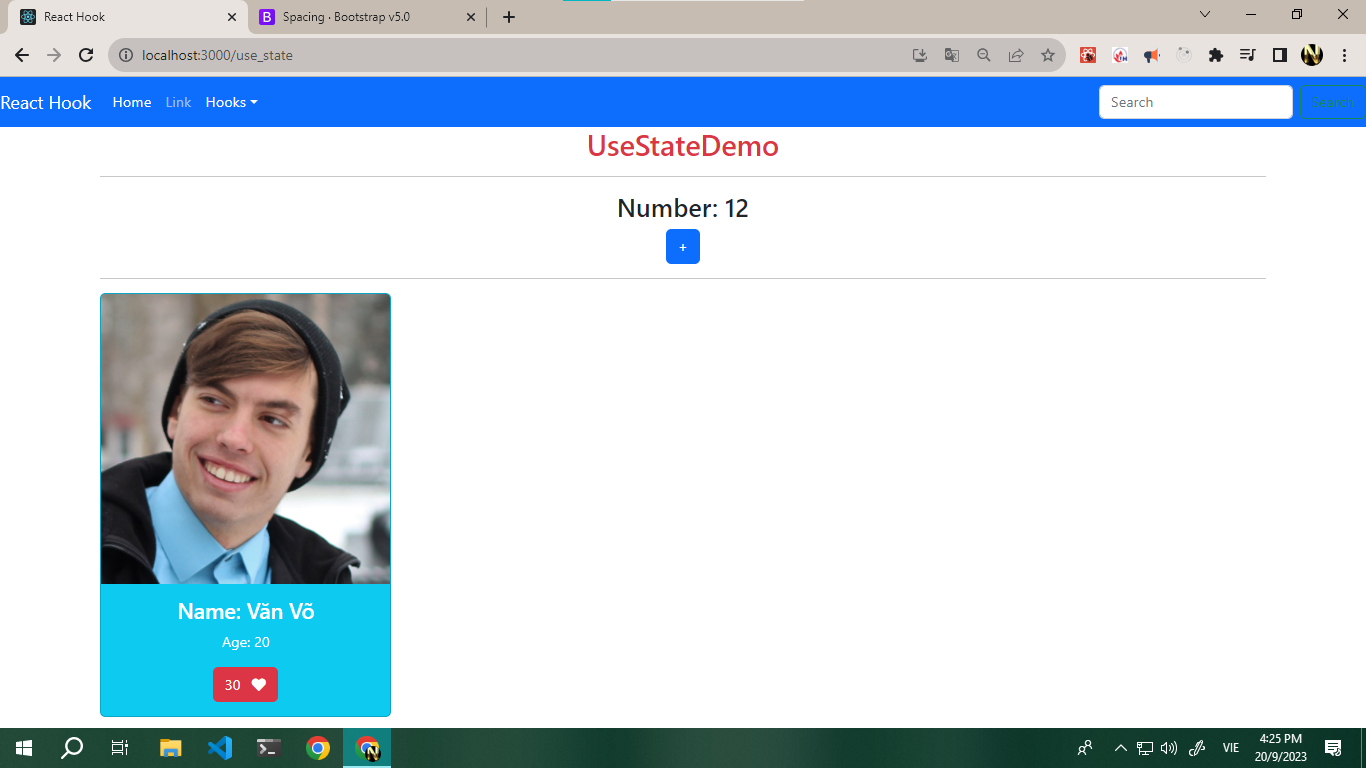
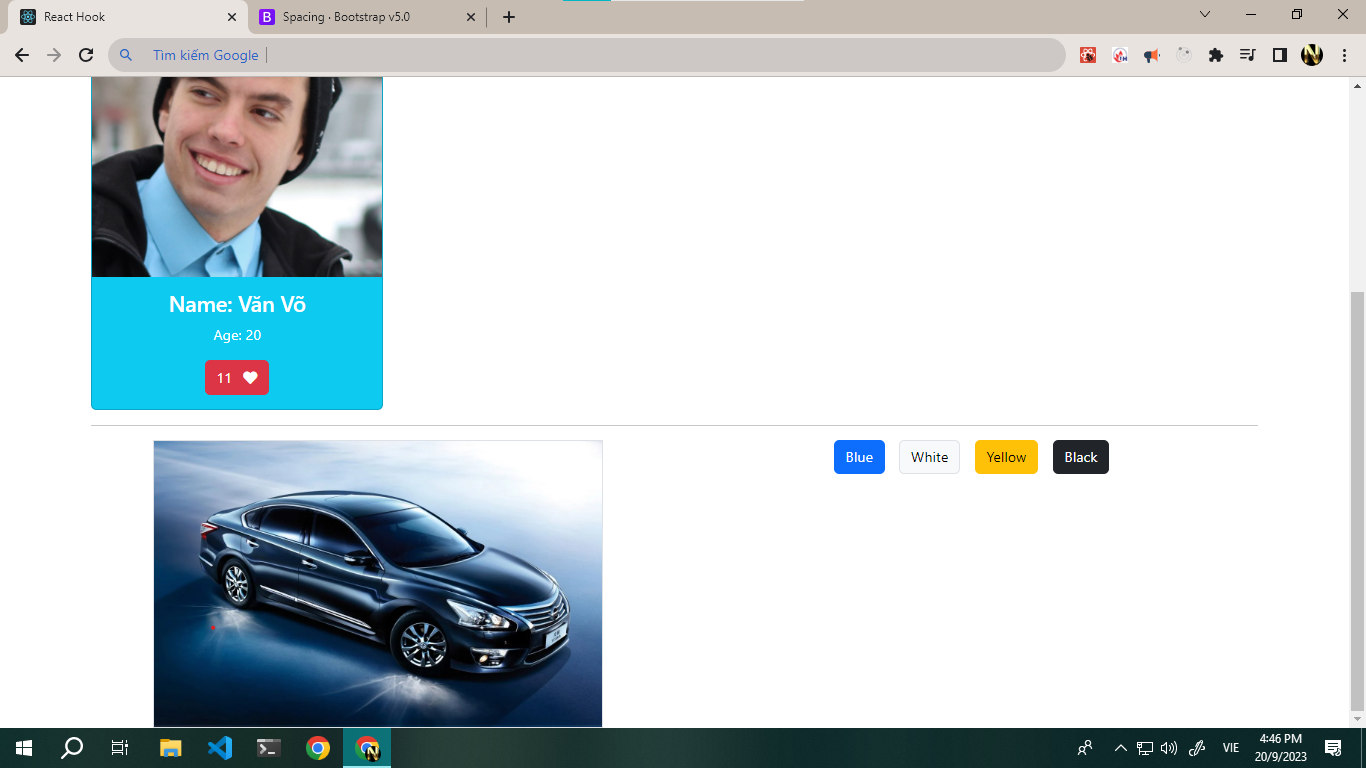
finish bt Chon xe

diff --git a/react_buoi10/src/pages/UseStateDemo/DemoChonXe.jsx b/react_buoi10/src/pages/UseStateDemo/DemoChonXe.jsx
@@ -1,0 +1,30 @@
+import React, { useState } from "react";
+
+export default function DemoChonXe() {
+    let [color, setColor] = useState("./img/products/car_black.webp");
+    const changeColor = (val) => {
+        let str = `./img/products/car_${val}.webp`;
+        setColor(str);
+    }
+  return (
+    <div className="row">
+      <div className="col-6">
+        <img src={color} className="border" alt="..." width={500} />
+      </div>
+      <div className="col-6">
+        <button onClick={() => {changeColor('blue')}} type="button" className="mx-2 btn btn-primary">
+          Blue
+        </button>
+        <button onClick={() => {changeColor('white')}} type="button" className="mx-2 btn btn-light border">
+          White
+        </button>
+        <button onClick={() => {changeColor('yellow')}} type="button" className="mx-2 btn btn-warning">
+          Yellow
+        </button>
+        <button onClick={() => {changeColor('black')}} type="button" className="mx-2 btn btn-dark">
+          Black
+        </button>
+      </div>
+    </div>
+  );
+}

diff --git a/react_buoi10/src/pages/UseStateDemo/UseStateDemo.jsx b/react_buoi10/src/pages/UseStateDemo/UseStateDemo.jsx
@@ -1,4 +1,5 @@
 import React, { useState } from "react";
+import DemoChonXe from "./DemoChonXe";
 
 export default function UseStateDemo() {
   let [number, setNumber] = useState(12);
@@ -41,6 +42,12 @@ export default function UseStateDemo() {
           </div>
         </div>
       </div>
+      
+        
+      <hr />
+          {/* BT Chon xe */}
+          <DemoChonXe />
+          
     </div>
   );
 }

diff --git a/react_buoi10/src/components/HearHome.jsx b/react_buoi10/src/components/HearHome.jsx
@@ -26,9 +26,9 @@ export default function HearHome() {
               </NavLink>
             </li>
             <li className="nav-item">
-              <a className="nav-link" href="#">
+              <NavLink className="nav-link" to="#">
                 Link
-              </a>
+              </NavLink>
             </li>
             <li className="nav-item dropdown">
               <NavLink
